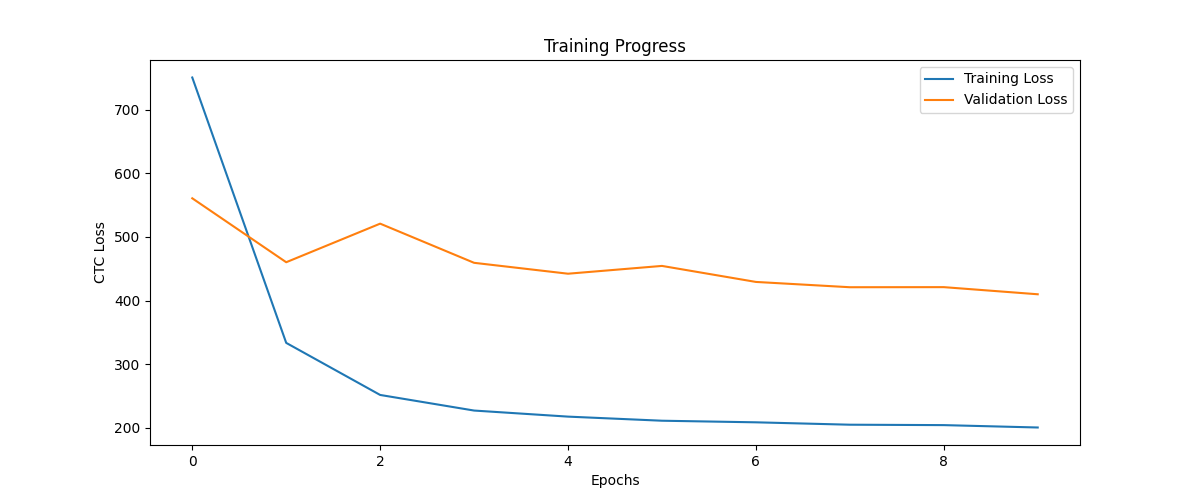
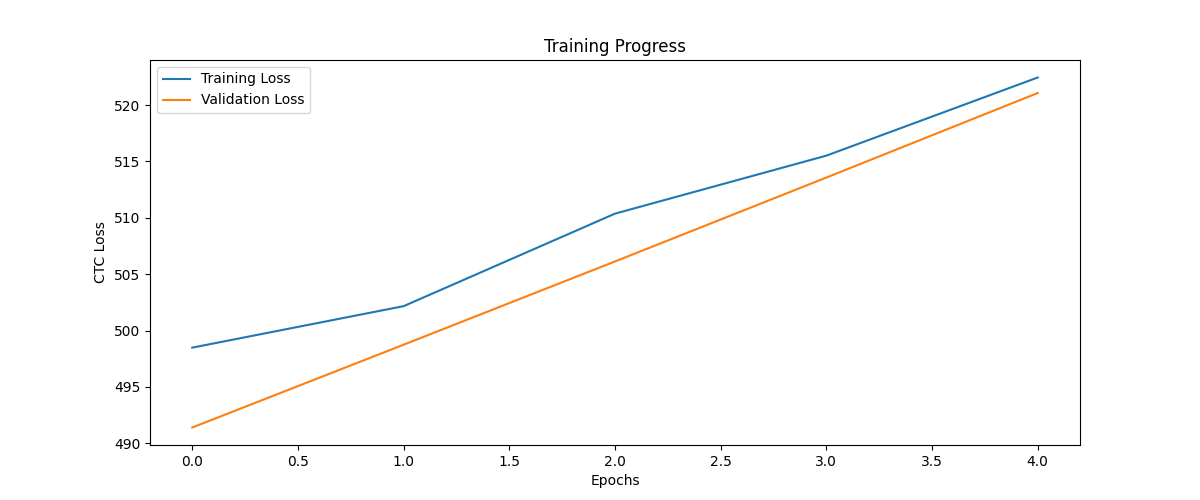
don't know

diff --git a/models/stt_model/architecture.py b/models/stt_model/architecture.py
@@ -29,17 +29,28 @@ def build_stt_model(
     # (batch size, timesteps, feature, channels)
     x = layers.Reshape( ( -1, input_dim, 1) ) (input_layer)
 
+    # REGULARIZATION
+    l2_reg = tf.keras.regularizers.L2(1e-5)
+
+
+    x = layers.Lambda(lambda x: (x - tf.reduce_mean(x, axis=[1, 2], keepdims=True)) / 
+                 (tf.math.reduce_std(x, axis=[1, 2], keepdims=True) + 1e-6))(x)
+
+
     # CNN for pattern extraction, Padding is to add same padding up down right and left.
     # and this will result for the output shape to be the same as input shape
 
     # CNN Block with strided convolutions
-    x = layers.Conv2D(32, (3,3), activation="relu", padding="same")(x)
+    x = layers.Conv2D(32, (3,3), activation="relu", padding="same", kernel_regularizer = l2_reg)(x)
     x = layers.BatchNormalization()(x)
     x = layers.MaxPooling2D( (2,1) ) (x) # Downsample that reduce spatial dimensions of input 
 
-    x = layers.Conv2D(64, (3,3), activation="relu", padding="same")(x)
+    x = layers.Conv2D(64, (3,3), activation="relu", padding="same", kernel_regularizer = l2_reg)(x)
     x = layers.BatchNormalization()(x)
     x = layers.MaxPooling2D( (2,1) ) (x) # Downsample that reduce spatial dimensions of input 
+
+    # Drop entire feature maps
+    x = layers.SpatialDropout2D(0.2)(x)
  
     # Now reshaping for RNN ( batch, time, feature ) by just feature * channels
     x = layers.Reshape( (-1, x.shape[2] * x.shape[3] ) ) (x)
@@ -47,16 +58,17 @@ def build_stt_model(
     print("Reshaped features dimension:", x.shape)
 
     # BiLSTM Layers with regularization to avoid overfitting. Bidirection to capture information from both sides and LSTM because audio is sequential
-    x = layers.Bidirectional(layers.LSTM(256, return_sequences=True, 
-                                      dropout=0.3, recurrent_dropout=0.2))(x)
-    x = layers.Bidirectional(layers.LSTM(256, return_sequences=True,
-                                      dropout=0.3, recurrent_dropout=0.2))(x)
+    x = layers.Bidirectional(layers.LSTM(64, return_sequences=True, 
+                                      dropout=0.2, recurrent_dropout=0.2, kernel_regularizer = l2_reg))(x)
+    # x = layers.Bidirectional(layers.LSTM(128, return_sequences=True,
+    #                                   dropout=0.3, recurrent_dropout=0.5, kernel_regularizer = l2_reg))(x)
     
     x = layers.Conv1D(128, 5, padding="same", activation="relu")(x)  # Character-level modeling
     x = layers.BatchNormalization()(x)  
 
     # Time-distributed dense : adds non-linear feature transformation before CTC
-    x = layers.TimeDistributed(layers.Dense(256, activation="relu"))(x)
+    x = layers.TimeDistributed(layers.Dense(256, activation="relu", kernel_regularizer = l2_reg))(x)
+
     x = layers.Dropout(0.4)(x)
 
     # # Initialize embeddings with some prior knowledge
@@ -74,16 +86,19 @@ def build_stt_model(
 # Custom bias initializer to balance character classes
     char_class_bias = np.zeros(vocab_size + 1)
 
+    for i in range(3, vocab_size + 1):  # Skip pad, unk, blank
+        char_class_bias[i] = -1.0
+
     # 1. Penalize blank token (prevents blank-dominated predictions)
-    char_class_bias[2] = -5.0  # Blank token
+    char_class_bias[2] = -10.0  # Blank token
 
     # 2. Penalize space token (prevents space-dominated predictions)
-    char_class_bias[3] = -5.0  # Space token
+    char_class_bias[3] = -2.0  # Space token
 
     # 3. Penalize vowels (model is biased toward vowels)
     vowel_indices = [11, 15, 19, 25, 31]  # a, e, i, o, u
     for idx in vowel_indices:
-        char_class_bias[idx] = -4.0
+        char_class_bias[idx] = -2.0
 
     # 4. Boost consonants (especially common ones)
     consonant_indices = [12, 13, 14, 16, 17, 18, 20, 21, 22, 23, 24, 
@@ -94,7 +109,7 @@ def build_stt_model(
         char_class_bias[idx] = 1.0  # Slight boost for all consonants
         
     for idx in common_consonants:
-        char_class_bias[idx] = 2.0  # Extra boost for common consonants
+        char_class_bias[idx] = 1.0  # Extra boost for common consonants
 
     # Use the custom bias initializer
     outputs = layers.Dense(
@@ -132,17 +147,17 @@ class CTCLossLayer(layers.Layer):
         
         # Simpler approach: Use one-hot masks for penalties
         # 1. Blank token penalty
-        blank_penalty = 25.0
+        blank_penalty = 10.0
         blank_mask = tf.one_hot(self.blank_index, depth=tf.shape(y_pred)[-1])
         blank_mask = tf.reshape(blank_mask, [1, 1, -1])  # [1, 1, vocab_size+1]
         
         # 2. Space token penalty
-        space_penalty = 20.0
+        space_penalty = 8.0
         space_mask = tf.one_hot(3, depth=tf.shape(y_pred)[-1])
         space_mask = tf.reshape(space_mask, [1, 1, -1])
         
         # 3. Vowel penalties (a, e, i, o, u)
-        vowel_penalty = 15.0
+        vowel_penalty = 5.0
         vowel_indices = tf.constant([11, 15, 19, 25, 31])
         vowel_mask = tf.reduce_sum(tf.one_hot(vowel_indices, depth=tf.shape(y_pred)[-1]), axis=0)
         vowel_mask = tf.reshape(vowel_mask, [1, 1, -1])
@@ -165,7 +180,7 @@ class CTCLossLayer(layers.Layer):
     def get_config(self):
         return {"blank_index": self.blank_index}
     
-    
+
     
     
 
@@ -191,8 +206,9 @@ def create_STT_with_CTC(input_dim=13, vocab_size=37) -> Model:
     model = Model(inputs=[mfcc_input, label_input], outputs=outputs)
 
     optimizer = tf.keras.optimizers.Adam(
-        learning_rate=5e-4,
-        clipnorm=1.0
+        learning_rate=1e-4,
+        clipnorm=1.0,
+        epsilon=1e-7
     )
 
     model.compile(optimizer=optimizer)
@@ -200,6 +216,16 @@ def create_STT_with_CTC(input_dim=13, vocab_size=37) -> Model:
     return model
 
     
+def create_simple_STT_without_CTC(input_dim=13, vocab_size=37):
+    input_layer = layers.Input(shape=(None, input_dim))
+    # Just two layers to start
+    x = layers.Bidirectional(layers.LSTM(64, return_sequences=True))(input_layer)
+    outputs = layers.Dense(vocab_size+1)(x)
+    
+    return Model(inputs=input_layer, outputs=outputs)
+
+
+
 # Visualize the architecture
 def visualize_model(model: Model):
     """Plot model architecture."""

diff --git a/training/train_streaming.py b/training/train_streaming.py
@@ -14,7 +14,7 @@ tf.keras.mixed_precision.set_global_policy('float32')
 SAMPLE_RATE = 16000
 EPOCHS = 10
 BATCH_SIZE = 64
-MAX_TRAIN_SAMPLES = 128
+MAX_TRAIN_SAMPLES = 2000
 
 # wer and cer metrics
 class STTMetrics(tf.keras.callbacks.Callback):
@@ -235,7 +235,7 @@ def train_model():
             monitor='val_loss'
         ),
         tf.keras.callbacks.TensorBoard(log_dir="logs"),
-        tf.keras.callbacks.EarlyStopping(patience=3, restore_best_weights=True),
+        tf.keras.callbacks.EarlyStopping(patience=4, restore_best_weights=True),
         tf.keras.callbacks.ReduceLROnPlateau(
             monitor='val_loss',
             factor=0.5,
